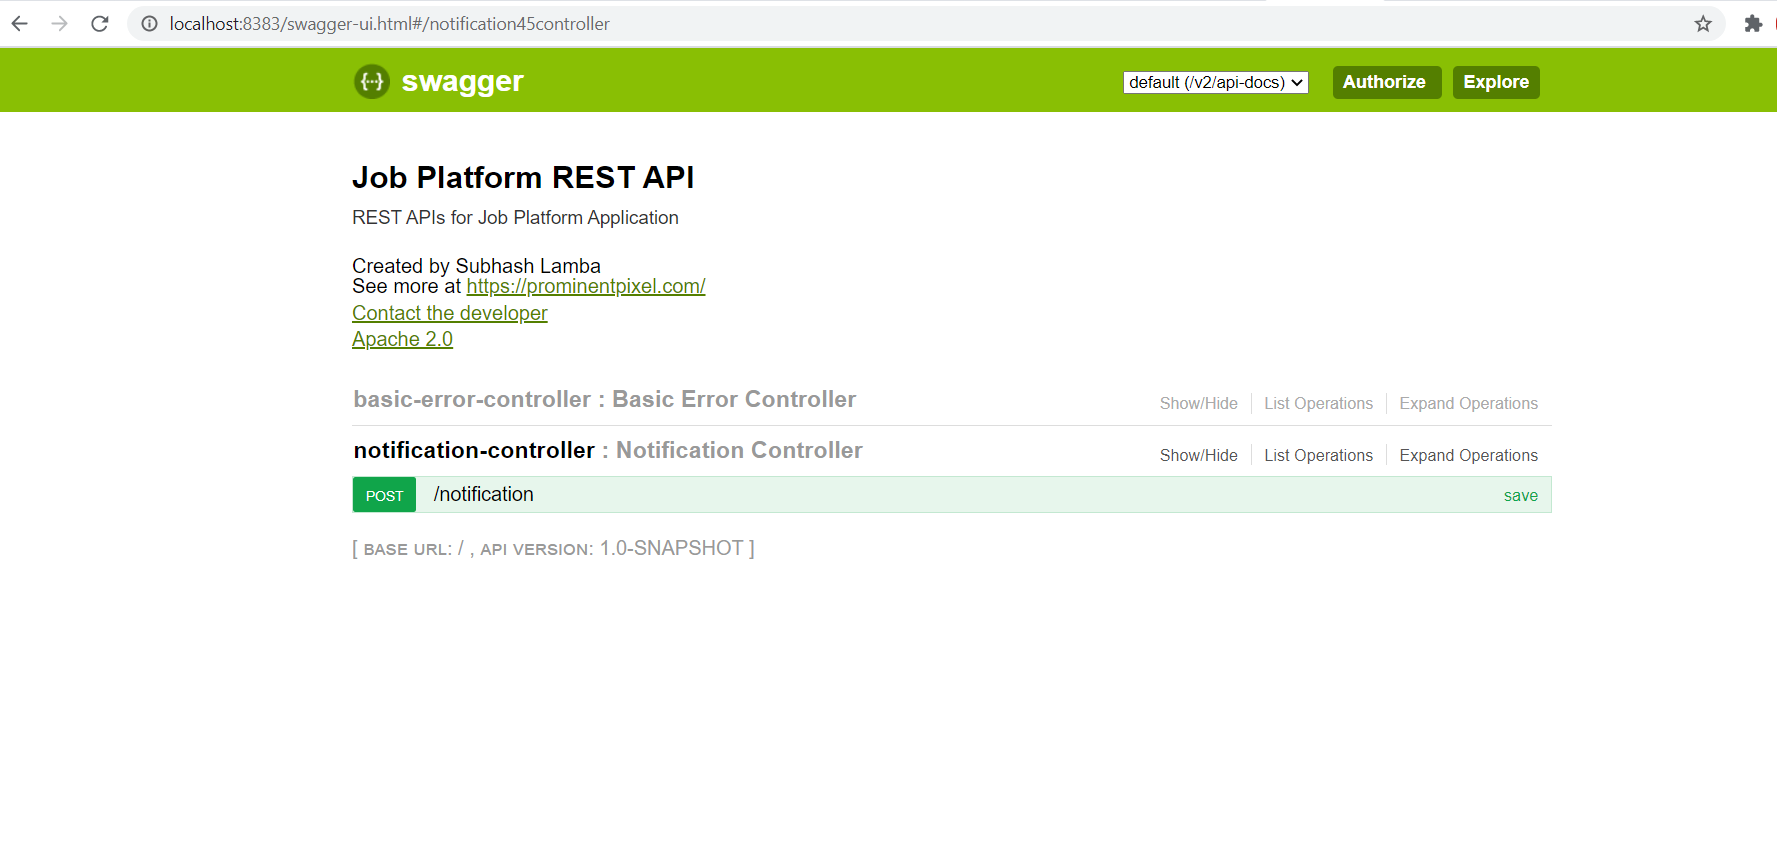
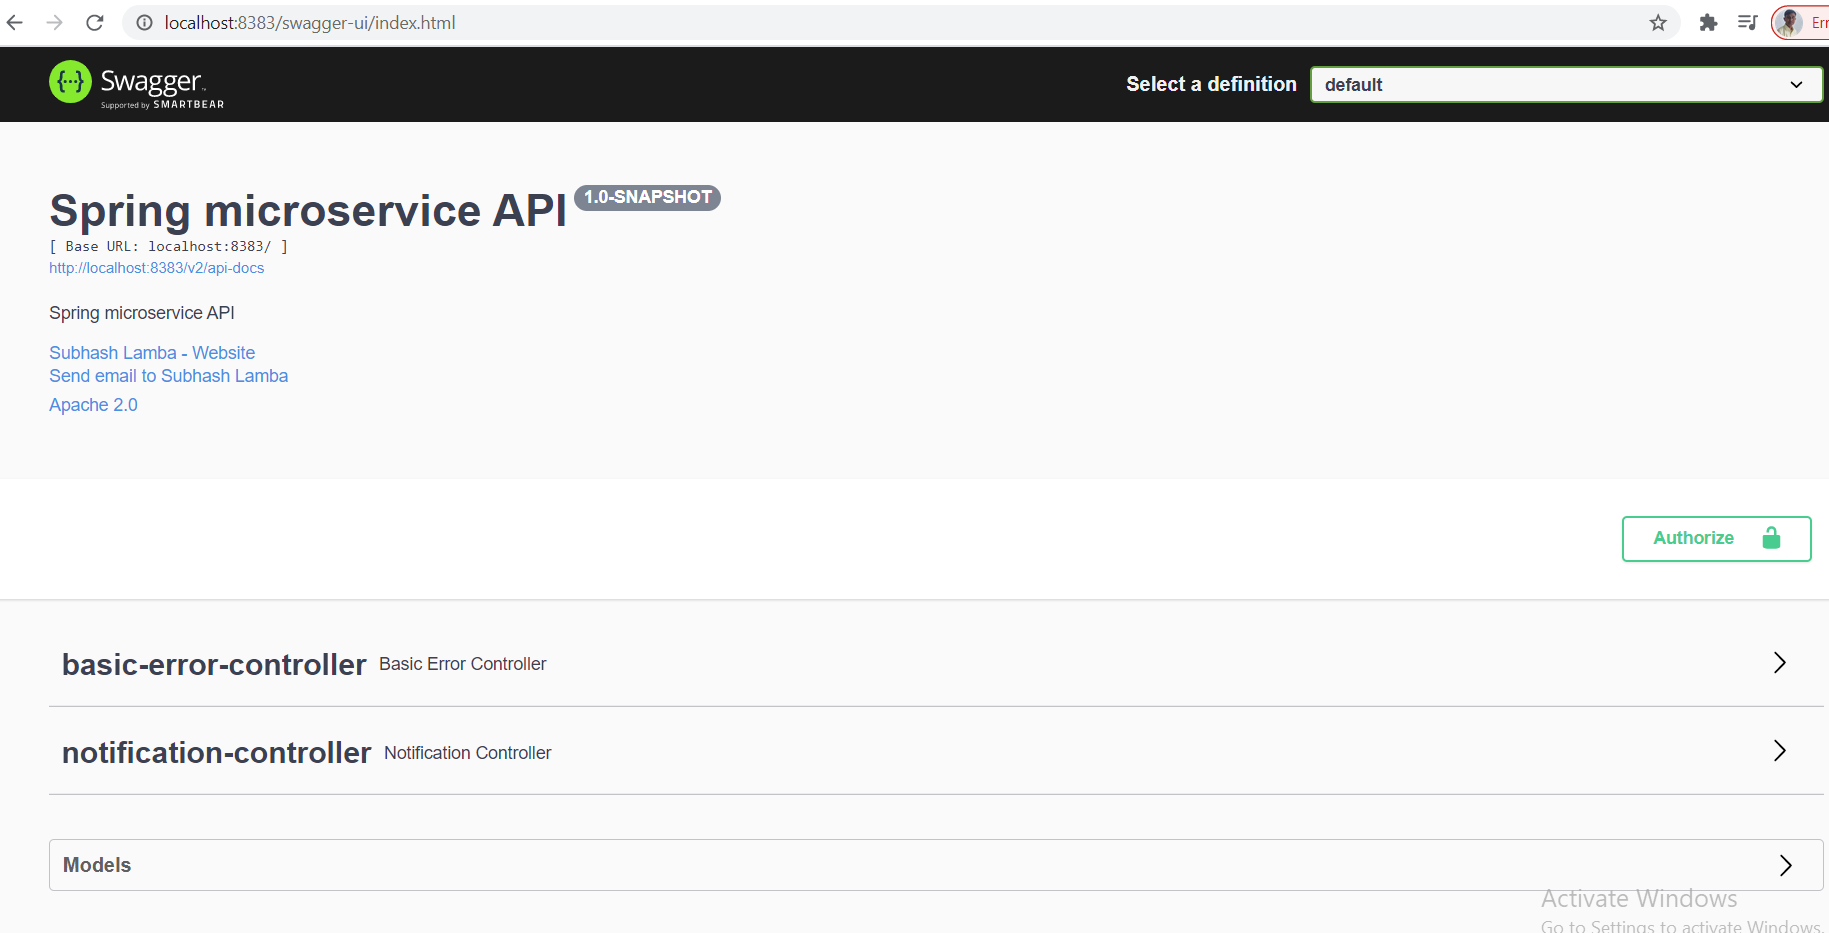
12: Upgrade the swagger version

diff --git a/spring-boot-cloud-eureka-notification-service/src/main/java/com/javadeveloperzone/config/SwaggerConfig.java b/spring-boot-cloud-eureka-notification-service/src/main/java/com/javadeveloperzone/config/SwaggerConfig.java
@@ -38,8 +38,8 @@ public class SwaggerConfig {
 
 
     private ApiInfo apiEndPointsInfo() {
-        return new ApiInfoBuilder().title("Job Platform REST API")
-                .description("REST APIs for Job Platform Application")
+        return new ApiInfoBuilder().title("Spring microservice API")
+                .description("Spring microservice API")
                 .contact(new Contact("Subhash Lamba", "https://prominentpixel.com/", "info@prominentpixel.com"))
                 .license("Apache 2.0")
                 .licenseUrl("http://www.apache.org/licenses/LICENSE-2.0.html")
@@ -78,7 +78,7 @@ public class SwaggerConfig {
     @Bean
     public SecurityConfiguration security() {
         return new SecurityConfiguration
-                ("client", "secret", "", "", "", ApiKeyVehicle.HEADER, HttpHeaders.AUTHORIZATION,"");
+                ("javadeveloperzone", "secret", "", "", "", ApiKeyVehicle.HEADER, HttpHeaders.AUTHORIZATION,"");
     }
 
     /**

diff --git a/spring-boot-cloud-eureka-order-service/src/main/java/com/javadeveloperzone/config/SwaggerConfig.java b/spring-boot-cloud-eureka-order-service/src/main/java/com/javadeveloperzone/config/SwaggerConfig.java
@@ -38,8 +38,8 @@ public class SwaggerConfig {
 
 
     private ApiInfo apiEndPointsInfo() {
-        return new ApiInfoBuilder().title("Job Platform REST API")
-                .description("REST APIs for Job Platform Application")
+        return new ApiInfoBuilder().title("Spring microservice API")
+                .description("Spring microservice API")
                 .contact(new Contact("Subhash Lamba", "https://prominentpixel.com/", "info@prominentpixel.com"))
                 .license("Apache 2.0")
                 .licenseUrl("http://www.apache.org/licenses/LICENSE-2.0.html")
@@ -78,7 +78,7 @@ public class SwaggerConfig {
     @Bean
     public SecurityConfiguration security() {
         return new SecurityConfiguration
-                ("client", "secret", "", "", "", ApiKeyVehicle.HEADER, HttpHeaders.AUTHORIZATION,"");
+                ("javadeveloperzone", "secret", "", "", "", ApiKeyVehicle.HEADER, HttpHeaders.AUTHORIZATION,"");
     }
 
     /**

diff --git a/spring-boot-cloud-eureka-user-service/src/main/java/com/javadeveloperzone/config/SwaggerConfig.java b/spring-boot-cloud-eureka-user-service/src/main/java/com/javadeveloperzone/config/SwaggerConfig.java
@@ -40,8 +40,8 @@ public class SwaggerConfig {
 
 
     private ApiInfo apiEndPointsInfo() {
-        return new ApiInfoBuilder().title("Job Platform REST API")
-                .description("REST APIs for Job Platform Application")
+        return new ApiInfoBuilder().title("Spring microservice API")
+                .description("Spring microservice API")
                 .contact(new Contact("Subhash Lamba", "https://prominentpixel.com/", "info@prominentpixel.com"))
                 .license("Apache 2.0")
                 .licenseUrl("http://www.apache.org/licenses/LICENSE-2.0.html")
@@ -80,7 +80,7 @@ public class SwaggerConfig {
     @Bean
     public SecurityConfiguration security() {
         return new SecurityConfiguration
-                ("client", "secret", "", "", "", ApiKeyVehicle.HEADER, HttpHeaders.AUTHORIZATION,"");
+                ("javadeveloperzone", "secret", "", "", "", ApiKeyVehicle.HEADER, HttpHeaders.AUTHORIZATION,"");
     }
 
     /**

diff --git a/readme.md b/readme.md
@@ -14,18 +14,18 @@ Spring boot microservice example with Eureka Server + Eureka Client + Spring Clo
     - Supports RestTemplate Client 
     - Supports Resilience4J circuit breaker 
     - Use of Resilience4J circuit breaker with RestTemplate
-    - Swagger Document - [http://localhost:8181/swagger-ui.html](http://localhost:8181/swagger-ui.html)
+    - Swagger Document - [http://localhost:8181/swagger-ui/index.html](http://localhost:8181/swagger-ui/index.html)
  - **Order Service**: Order microservice with a basic feature 
     - Eureka Client
     - OAuth2.0 Client  
     - Supports FeignClient Client
     - Supports Resilience4J circuit breaker
     - Use of Resilience4J circuit breaker with FeignClient 
-    - Swagger Document - [http://localhost:8282/swagger-ui.html](http://localhost:8282/swagger-ui.html)
+    - Swagger Document - [http://localhost:8282/swagger-ui/index.html](http://localhost:8282/swagger-ui/index.html)
  - **Notification Service**: Notification microservice with basic feature
     - Eureka Client
     - OAuth2.0 Client  
-    - Swagger Document - [http://localhost:8383/swagger-ui.html](http://localhost:8383/swagger-ui.html)
+    - Swagger Document - [http://localhost:8383/swagger-ui/index.html](http://localhost:8383/swagger-ui/index.html)
     
 ## Checkout repository
 
